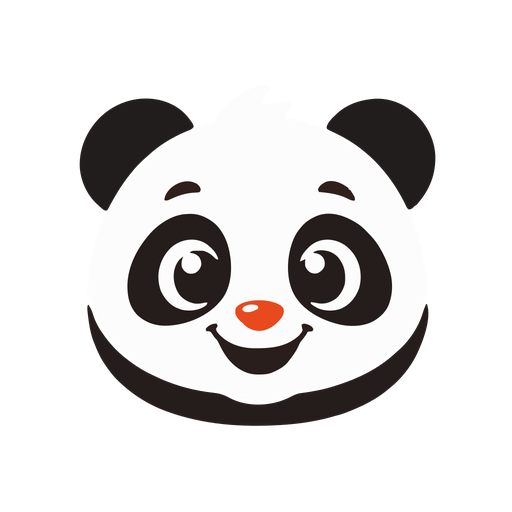
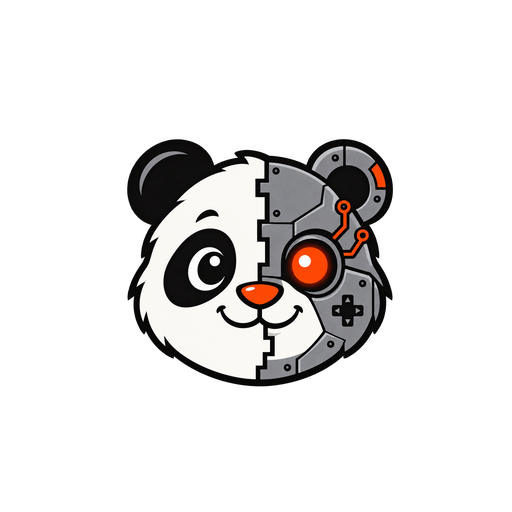
Use new half-cyborg panda studio mark
New panda-mark, favicon (on a light disc so it reads on dark tabs) and
an opaque og.png share image for the home page.

Claude-Session: https://claude.ai/code/session_016mamWp7rL7qF5kVSs7eALq

Changed region(s): [[0.1562, 0.1875, 0.875, 0.8438]]

diff --git a/index.html b/index.html
@@ -11,7 +11,7 @@
 <meta property="og:title" content="Panda.az Studio: Mobile Games and Apps">
 <meta property="og:description" content="Panda.az Studio builds mobile games and apps for Android: Train Tracks, SquishyCast, Pocket Logic and more on the way.">
 <meta property="og:url" content="https://panda.az/">
-<meta property="og:image" content="https://panda.az/img/panda-mark.png">
+<meta property="og:image" content="https://panda.az/img/og.png">
 <meta name="twitter:card" content="summary">
 <link rel="icon" type="image/png" href="/img/favicon.png">
 <link rel="apple-touch-icon" href="/img/favicon.png">
